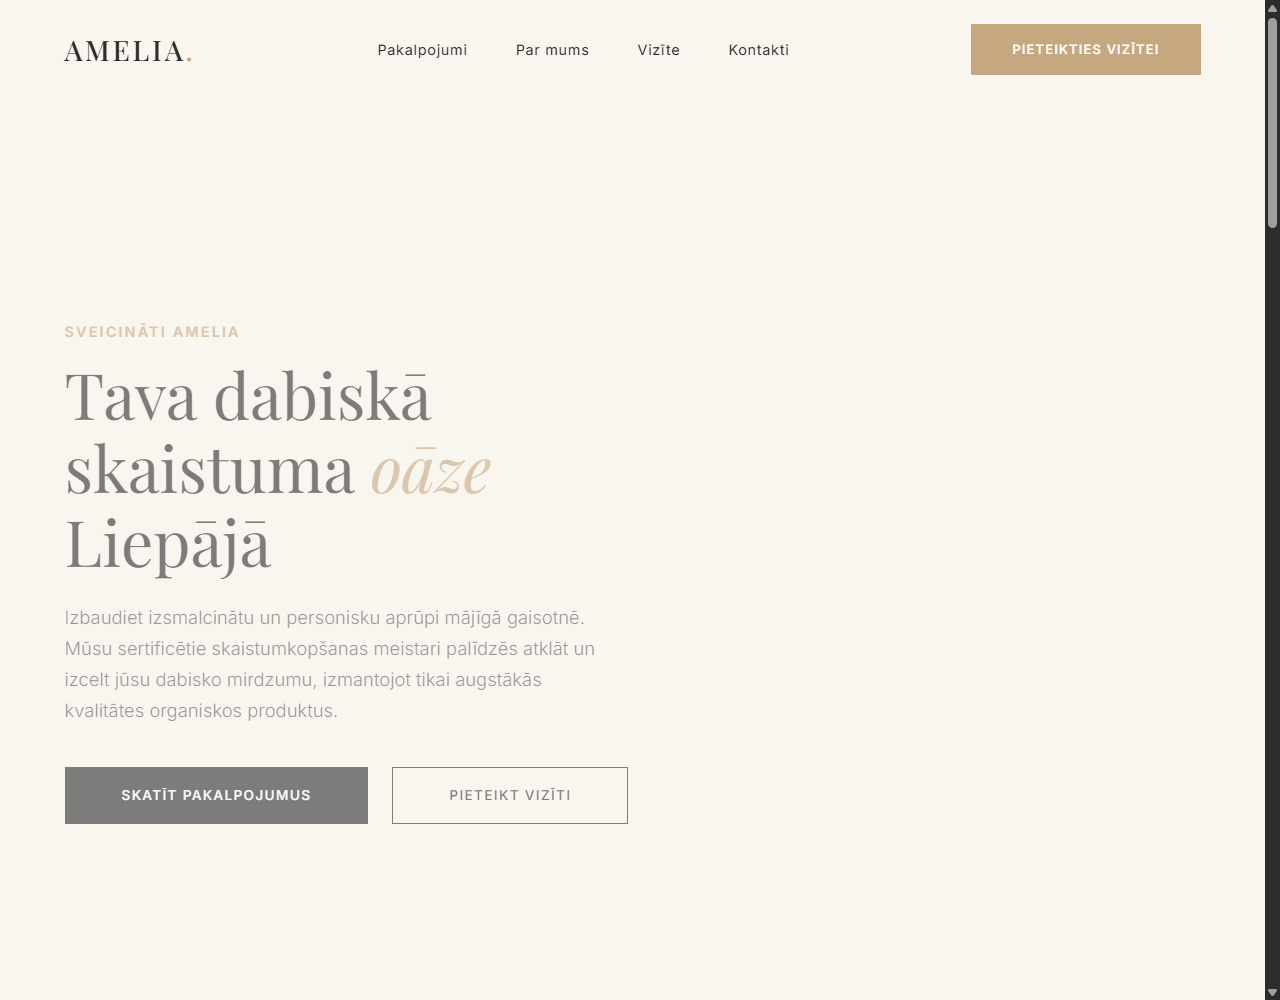
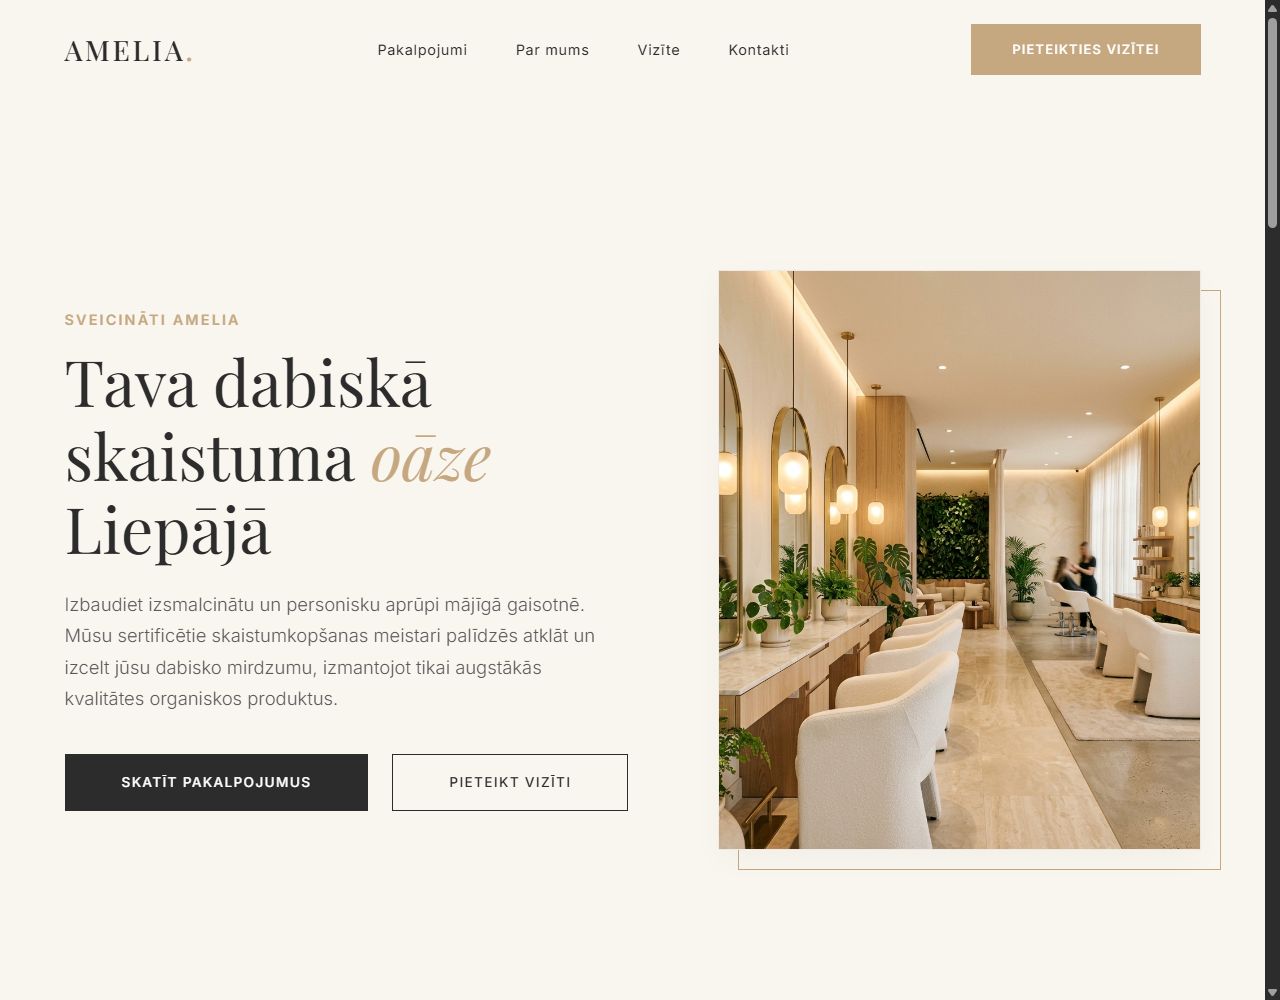
duhh

diff --git a/index.html b/index.html
@@ -179,7 +179,7 @@
             </div>
             <div class="project">
                 <div class="project-img-wrapper">
-                    <img src="assets/salon_mockup.png" alt="Skaistumkopšanas salons AMELIA - Salon template">
+                    <img src="assets/salon_mockup.png?v=2" alt="Skaistumkopšanas salons AMELIA - Salon template">
                 </div>
                 <div class="project-content">
                     <div class="project-tags">